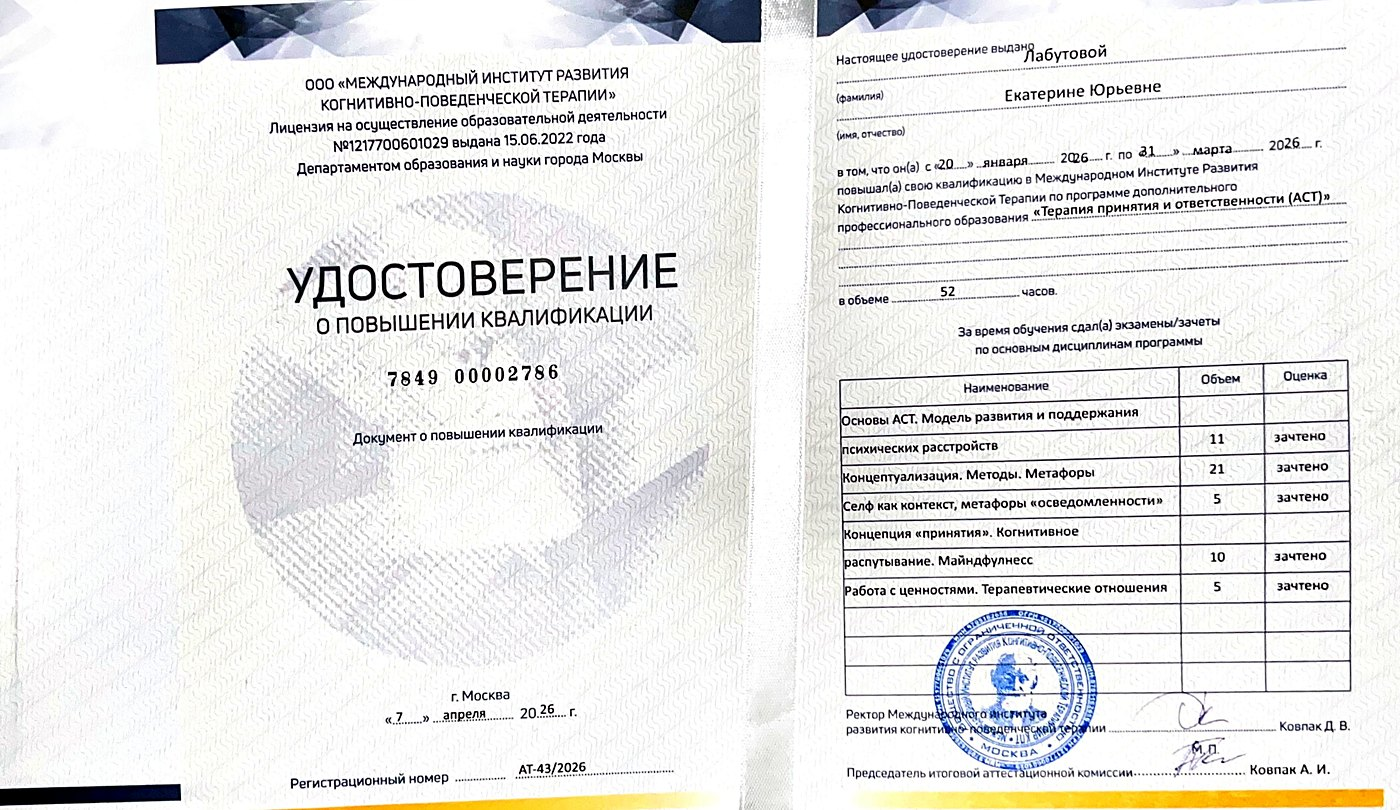
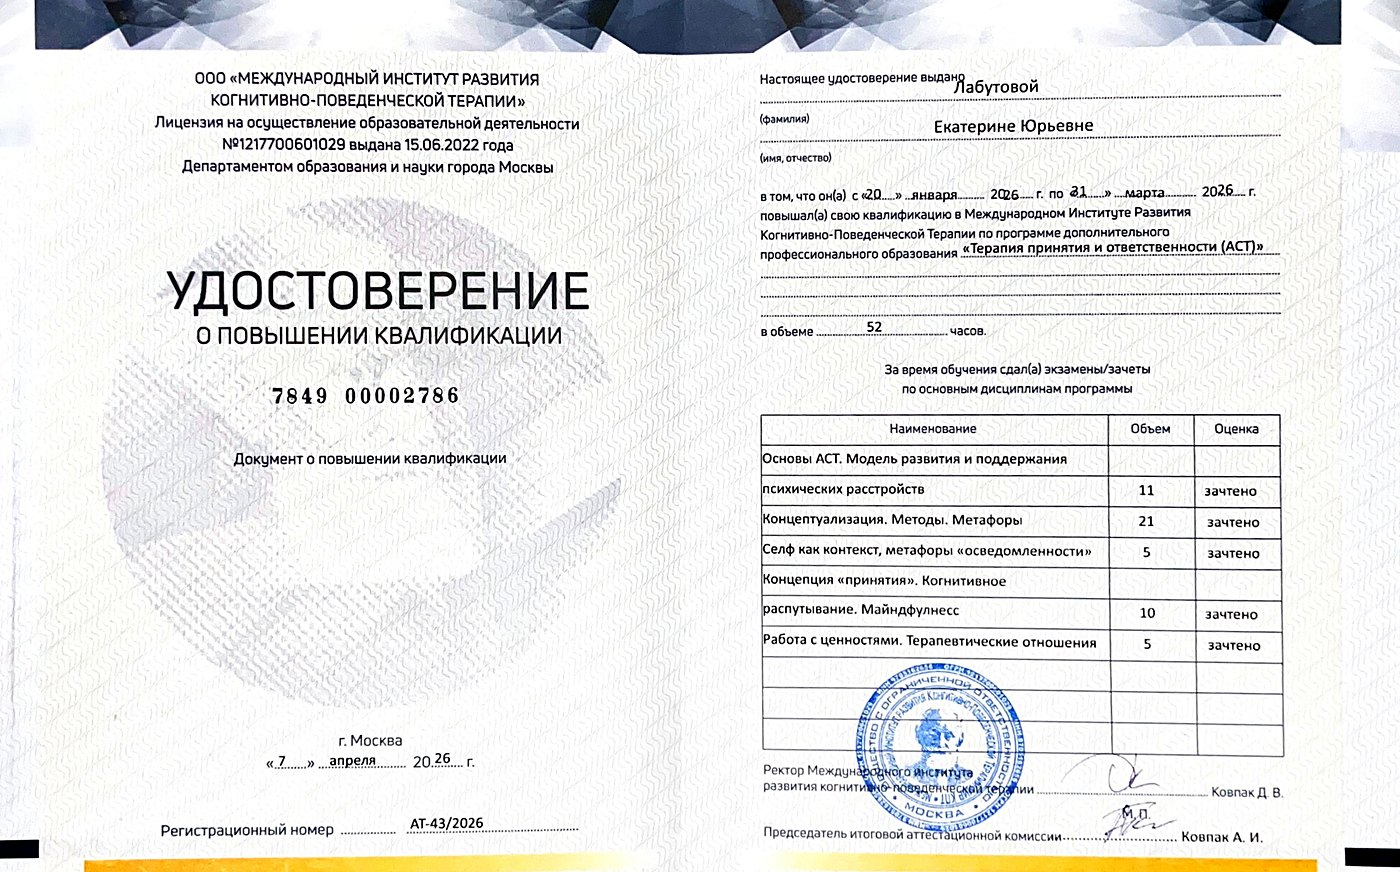
Replace ACT certificate with higher-quality scan

diff --git a/index.html b/index.html
@@ -903,9 +903,9 @@
               </button>
 
               <button class="doc" type="button">
-                <img src="docs/cert-act.jpg"
+                <img src="docs/cert-act.jpg?v=2"
                   alt="Удостоверение о повышении квалификации, программа «Терапия принятия и ответственности (ACT)», 52 часа"
-                  width="1400" height="810" loading="lazy">
+                  width="1400" height="872" loading="lazy">
                 <span>Институт развития КПТ · ACT · 52 ч.</span>
               </button>
             </div>

diff --git a/page.html b/page.html
@@ -891,9 +891,9 @@
               </button>
 
               <button class="doc" type="button">
-                <img src="docs/cert-act.jpg"
+                <img src="docs/cert-act.jpg?v=2"
                   alt="Удостоверение о повышении квалификации, программа «Терапия принятия и ответственности (ACT)», 52 часа"
-                  width="1400" height="810" loading="lazy">
+                  width="1400" height="872" loading="lazy">
                 <span>Институт развития КПТ · ACT · 52 ч.</span>
               </button>
             </div>
